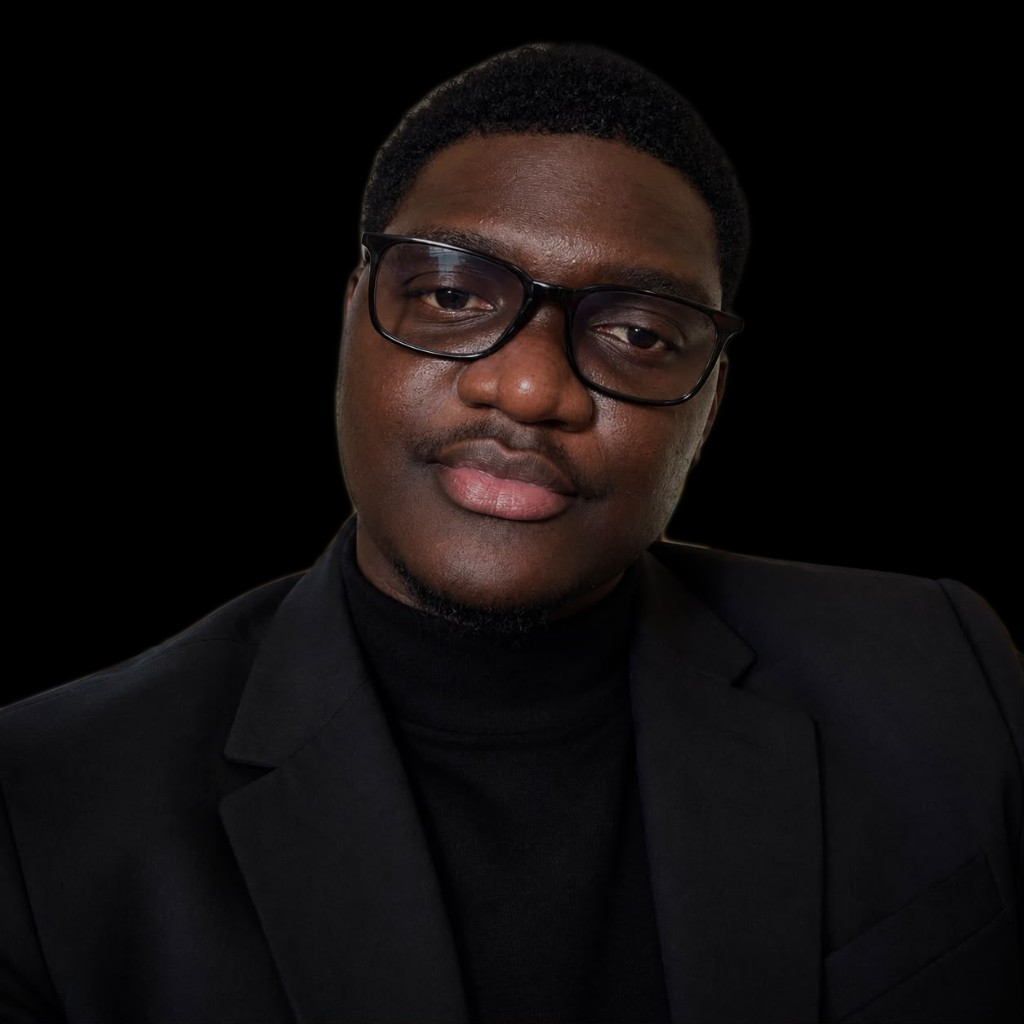
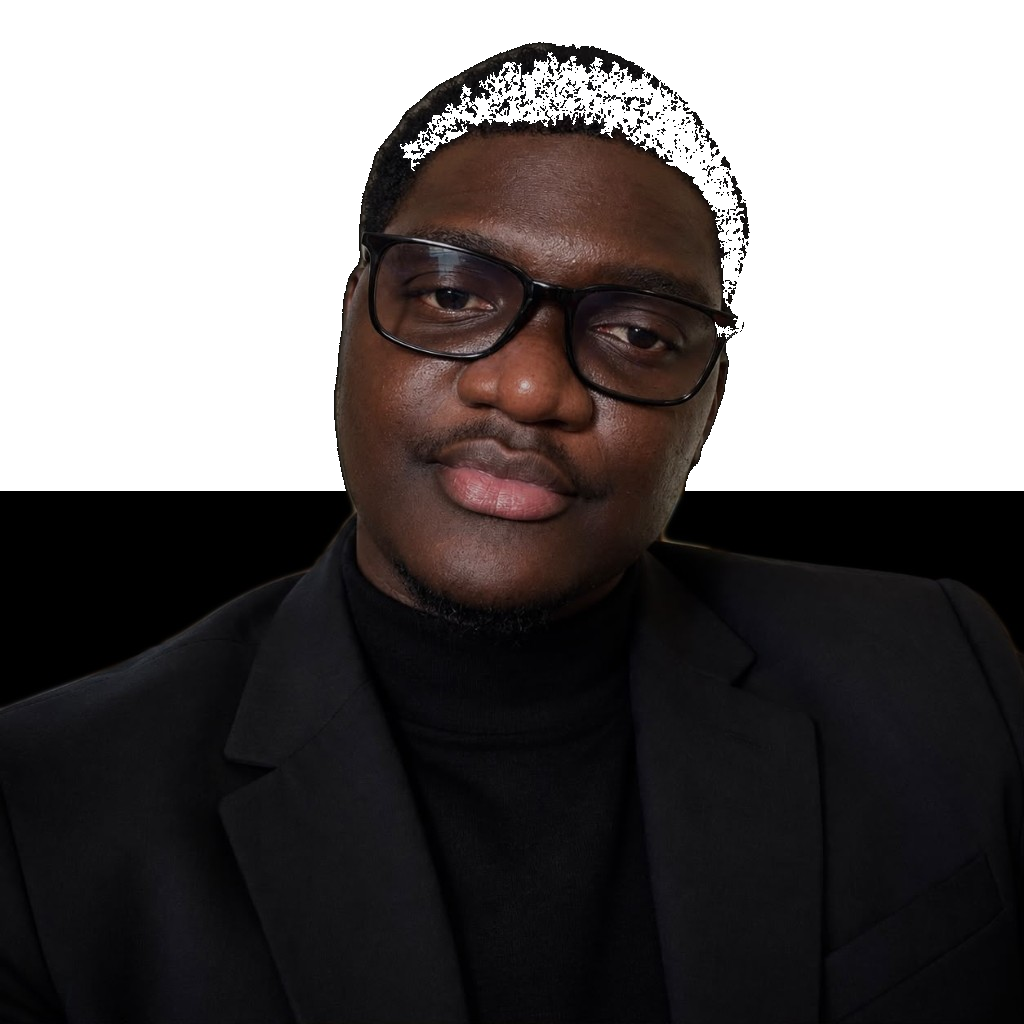
Align the hero with the editorial cutout layout.

diff --git a/src/components/Hero.jsx b/src/components/Hero.jsx
@@ -40,38 +40,40 @@ const SOCIALS = [
 export default function Hero() {
   return (
     <section className="relative h-screen min-h-[100svh] overflow-hidden bg-paper">
-      <div className="enter-name pointer-events-none absolute inset-0 z-[1] -rotate-[6deg]">
-        <p className="font-display text-hollow absolute left-[5%] top-[7%] text-[clamp(4rem,11vw,11rem)] uppercase leading-[0.78] tracking-[-0.04em] md:left-[7%] md:top-[9%]">
+      <div className="enter-name pointer-events-none absolute inset-0 z-[1] origin-[50%_45%] -rotate-[6deg]">
+        <p className="font-display text-hollow absolute left-[4%] top-[10%] text-[clamp(4.2rem,12vw,10.5rem)] uppercase leading-[0.76] tracking-[-0.05em] md:left-[6%]">
           Elie
         </p>
-        <p className="font-display absolute right-[2%] top-[26%] text-right text-[clamp(4rem,11vw,11rem)] uppercase leading-[0.78] tracking-[-0.04em] text-ink md:right-[5%] md:top-[30%]">
+        <p className="font-display absolute right-[3%] top-[34%] text-right text-[clamp(4.2rem,12vw,10.5rem)] uppercase leading-[0.76] tracking-[-0.05em] text-ink md:right-[6%] md:top-[36%]">
           Katende
         </p>
       </div>
 
-      <img
-        src="/photo-detouree.png"
-        alt="Elie Katende"
-        className="enter-photo pointer-events-none absolute bottom-0 left-1/2 z-[2] h-[48vh] max-h-[620px] w-auto -translate-x-1/2 select-none object-contain object-bottom md:h-[54vh]"
-      />
+      <div className="enter-photo pointer-events-none absolute bottom-0 left-1/2 z-[2] h-[64vh] w-[min(48vw,560px)] -translate-x-1/2 overflow-hidden max-md:w-[78vw]">
+        <img
+          src="/photo-detouree.png?v=4"
+          alt="Elie Katende"
+          className="absolute bottom-0 left-1/2 h-[70vh] w-auto max-w-none -translate-x-1/2 select-none object-cover object-top"
+        />
+      </div>
 
-      <div className="enter-copy absolute left-[7%] top-[46%] z-[3] max-w-[220px] -rotate-[6deg] md:left-[8%] md:top-[48%] md:max-w-[240px] max-md:left-[6%] max-md:top-auto max-md:bottom-[34%] max-md:rotate-0">
+      <div className="enter-copy absolute left-[8%] top-[44%] z-[3] max-w-[230px] origin-left -rotate-[6deg] max-md:bottom-[30%] max-md:left-[6%] max-md:top-auto max-md:rotate-0">
         <p className="font-sans text-[13px] leading-tight text-ink md:text-[14px]">
-          <span className="font-bold uppercase tracking-wide">Développeur</span>{' '}
-          <span className="font-medium">full stack</span>
+          <span className="font-bold uppercase tracking-[0.04em]">Développeur</span>{' '}
+          <span>full stack</span>
         </p>
-        <p className="mt-2 font-sans text-[12px] leading-snug text-[#4a4a4a]">
+        <p className="mt-2 font-sans text-[12px] leading-snug text-[#3f3f3f]">
           Étudiant en informatique et développeur full stack indépendant basé à Kinshasa.
         </p>
         <a
           href="tel:+243814367673"
-          className="mt-4 inline-flex items-center rounded-full bg-ink px-4 py-2 font-sans text-[11px] font-medium tracking-wide text-white"
+          className="mt-4 inline-flex items-center rounded-full bg-ink px-4 py-[7px] font-sans text-[11px] font-medium text-white"
         >
           +243 81 436 76 73
         </a>
       </div>
 
-      <ul className="enter-links absolute bottom-[7%] right-[6%] z-[3] flex -rotate-[6deg] flex-col gap-2.5 max-md:bottom-4 max-md:right-0 max-md:left-0 max-md:flex-row max-md:justify-center max-md:rotate-0">
+      <ul className="enter-links absolute bottom-[8%] right-[7%] z-[3] flex origin-bottom-right -rotate-[6deg] flex-col gap-2.5 max-md:bottom-5 max-md:left-0 max-md:right-0 max-md:flex-row max-md:justify-center max-md:rotate-0">
         {SOCIALS.map((item) => (
           <li key={item.label}>
             <a
@@ -80,7 +82,7 @@ export default function Hero() {
               rel="noreferrer"
               className="flex items-center gap-2 font-sans text-[12px] text-[#6b6b6b] hover:text-ink"
             >
-              <span className="flex h-4 w-4 items-center justify-center rounded-full border border-[#cfcfcf] text-[#6b6b6b]">
+              <span className="flex h-4 w-4 items-center justify-center rounded-full border border-[#c8c8c8]">
                 {item.icon}
               </span>
               {item.label}

diff --git a/src/index.css b/src/index.css
@@ -18,29 +18,27 @@
   }
 
   .enter-name {
-    animation: enter 900ms ease-out both;
+    animation: fade-up 900ms ease-out both;
   }
 
   .enter-photo {
-    animation: enter 1100ms ease-out 120ms both;
+    animation: fade-up 1100ms ease-out 120ms both;
   }
 
   .enter-copy {
-    animation: enter 800ms ease-out 220ms both;
+    animation: fade-up 800ms ease-out 220ms both;
   }
 
   .enter-links {
-    animation: enter 800ms ease-out 320ms both;
+    animation: fade-up 800ms ease-out 320ms both;
   }
 }
 
-@keyframes enter {
+@keyframes fade-up {
   from {
     opacity: 0;
-    transform: translateY(18px);
   }
   to {
     opacity: 1;
-    transform: translateY(0);
   }
 }
